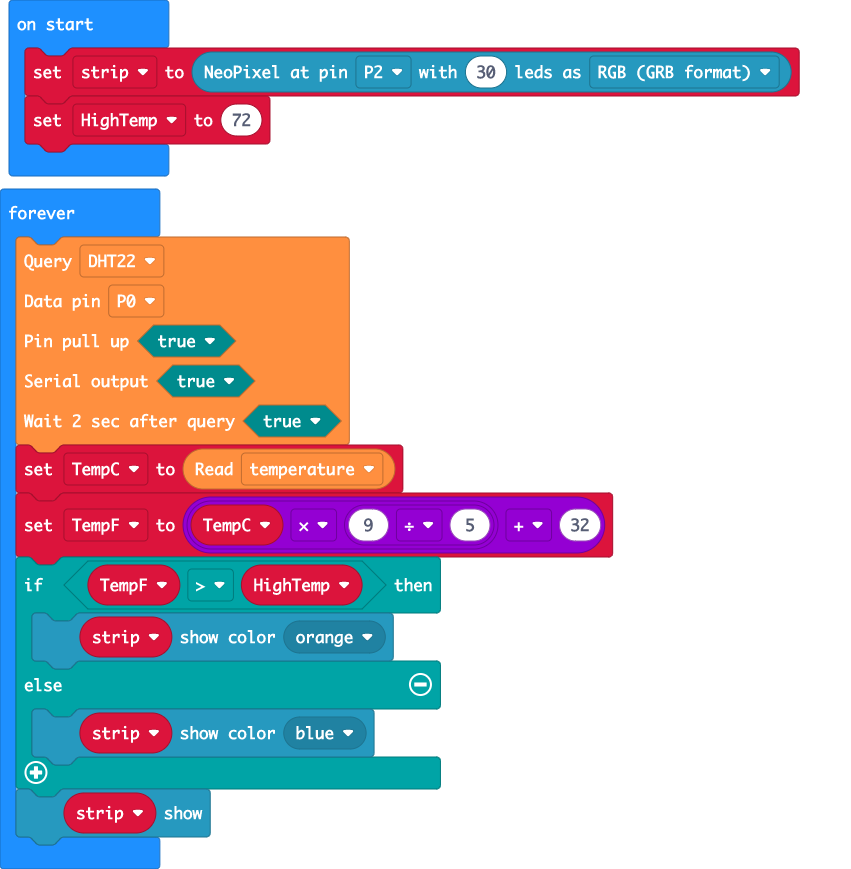
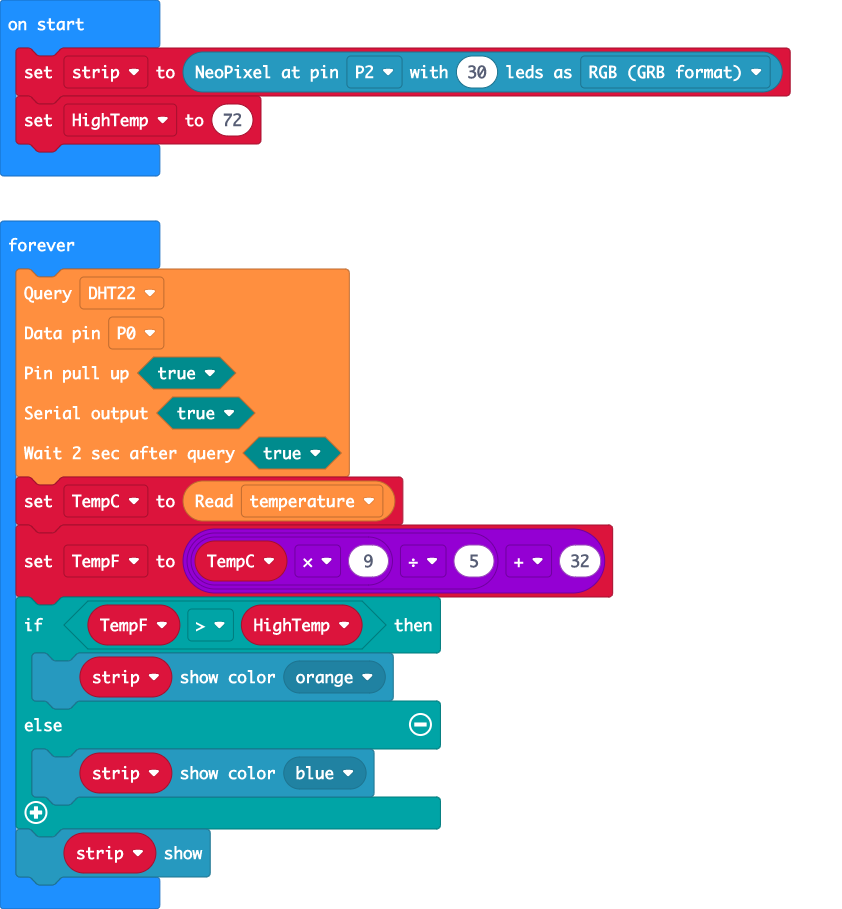
Update main.blocks, main.ts, tutorial.md

Changed region(s): [[0.0, 0.0, 0.9572, 1.0]]

diff --git a/main.ts b/main.ts
@@ -11,7 +11,7 @@ basic.forever(function () {
     true
     )
     TempC = dht11_dht22.readData(dataType.temperature)
-    TempF = TempC * (9 / 5) + 32
+    TempF = TempC * 9 / 5 + 32
     if (TempF > HighTemp) {
         strip.showColor(neopixel.colors(NeoPixelColors.Orange))
     } else {

diff --git a/tutorial.md b/tutorial.md
@@ -1,5 +1,10 @@
 # Use Temperature Data to Change LED colors
 
+``` package
+neopixel=github:microsoft/pxt-neopixel#v0.7.3
+pxt-DHT11_DHT22=github:alankrantas/pxt-DHT11_DHT22#v0.0.2
+```
+
 ## Step 1: Introduction @unplugged
 
 Welcome! This tutorial will teach you how to change your LEDs from one color to another when the temperature of your garden is too high.
@@ -172,9 +177,4 @@ basic.forever(function () {
 
 Now you're ready to download your code! Press the ``|Download|`` button to save the code to your computer.
 
-
-``` package
-neopixel=github:microsoft/pxt-neopixel#v0.7.3
-pxt-DHT11_DHT22=github:alankrantas/pxt-DHT11_DHT22#v0.0.2
-```
 
